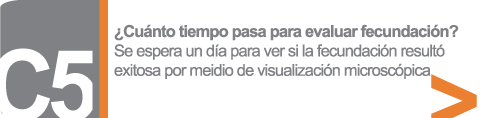
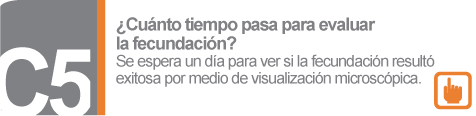
IMAGENES FINALES

diff --git a/estilo.css b/estilo.css
@@ -99,7 +99,13 @@ width:100%;
 		width:291px;
 		height:130px;
 	}
-	
+
+#headerFertilizacionLogo:hover
+	{
+	    background:url('images/header/FertilizacionAsistida_hover.png');
+	    
+	}
+
 #headerBotonFoto
 	{
 		background:url('images/header/foto_boton.png');
